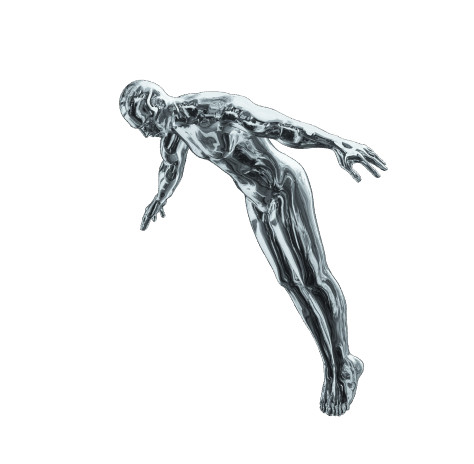
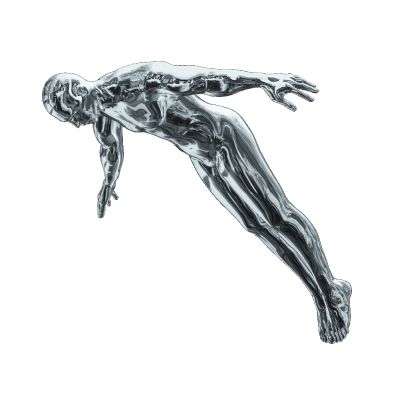
review update

Changed region(s): [[0.0867, 0.1467, 0.8675, 0.9095]]

diff --git a/components/SectionAccess.vue b/components/SectionAccess.vue
@@ -16,6 +16,7 @@
       <div class="scrolling-wrapper">
         <div v-for="item in list" :key="item.text" class="logos-item">
           <tm-link :href="item.url" class="logo" :class="item.img">
+            <span class="logo-inner" :class="item.img"></span>
             <img
               :src="require(`~/assets/images/logos/${item.img}.svg`)"
               :alt="item.text"
@@ -40,6 +41,7 @@
           <div class="text">
             <div v-for="item in list" :key="item.text" class="logos-item">
               <tm-link :href="item.url" class="logo" :class="item.img">
+                <span class="logo-inner" :class="item.img"></span>
                 <img
                   :src="require(`~/assets/images/logos/${item.img}.svg`)"
                   :alt="item.text"
@@ -57,6 +59,7 @@
           <div class="text">
             <div v-for="item in list" :key="item.text" class="logos-item">
               <tm-link :href="item.url" class="logo" :class="item.img">
+                <span class="logo-inner" :class="item.img"></span>
                 <img
                   :src="require(`~/assets/images/logos/${item.img}.svg`)"
                   :alt="item.text"
@@ -202,20 +205,21 @@ export default {
 
 .logo
   position relative
-  display inline-flex
-  align-items center
-  justify-content center
   width 7.8125rem
   height 7.8125rem
-  border-radius 100%
-  background-position center
-  background-size 101%
-  background-repeat no-repeat
+  color transparent
   &:hover
-  &:focus
+    .logo-inner
+    .logo-item
+      transform translate(-50%, -50%) scale(1.1)
     &:before
       animation none
-      opacity 0.75
+      opacity 0.7
+  &:focus
+  &:active
+    &:before
+      animation none
+      opacity 0.7
   &:before
     content ''
     opacity 0.5
@@ -229,37 +233,62 @@ export default {
     transition opacity .2s $ease-out
     animation fading-orb 5s ease-out infinite
   &.akash
-    background-image url('~/assets/images/logos/orb-akash.jpg')
     &:before
       background radial-gradient(50% 50% at 50% 50%, #EF6565 35.94%, rgba(243, 102, 91, 0) 100%)
   &.cosmos
-    background-image url('~/assets/images/logos/orb-cosmos.jpg')
     &:before
       background radial-gradient(50% 50% at 50% 50%, #7C8AFF 35.94%, rgba(124, 138, 255, 0) 100%)
   &.crypto-com
-    background-image url('~/assets/images/logos/orb-crypto-com.jpg')
     &:before
       background radial-gradient(50% 50% at 50% 50%, #3C61DB 35.94%, rgba(177, 98, 230, 0) 100%)
   &.irisnet
-    background-image url('~/assets/images/logos/orb-irisnet.jpg')
     &:before
       background radial-gradient(50% 50% at 50% 50%, #7C8AFF 35.94%, rgba(177, 98, 230, 0) 100%)
   &.osmosis
-    background-image url('~/assets/images/logos/orb-osmosis.jpg')
     &:before
       background radial-gradient(50% 50% at 50% 50%, #9948FF 35.94%, rgba(124, 138, 255, 0) 100%)
   &.persistence
-    background-image url('~/assets/images/logos/orb-persistence.jpg')
     &:before
       background radial-gradient(50% 50% at 50% 50%, #6F312A 35.94%, rgba(135, 62, 57, 0) 100%)
   &.regen-network
-    background-image url('~/assets/images/logos/orb-regen-network.jpg')
     &:before
       background radial-gradient(50% 50% at 50% 50%, #57B17C 35.94%, rgba(136, 206, 200, 0) 100%)
   &.sentinel
-    background-image url('~/assets/images/logos/orb-sentinel.jpg')
     &:before
       background radial-gradient(50% 50% at 50% 50%, #506AFF 35.94%, rgba(124, 138, 255, 0) 100%)
+
+.logo-inner
+  position absolute
+  width 100%
+  height 100%
+  top 50%
+  left 50%
+  border-radius 100%
+  display inline-flex
+  align-items center
+  justify-content center
+  background-position center
+  background-size 101%
+  background-repeat no-repeat
+  transform translate(-50%, -50%)
+  transition transform .2s $ease-out
+  will-change all
+  &.akash
+    background-image url('~/assets/images/logos/orb-akash.jpg')
+  &.cosmos
+    background-image url('~/assets/images/logos/orb-cosmos.jpg')
+  &.crypto-com
+    background-image url('~/assets/images/logos/orb-crypto-com.jpg')
+  &.irisnet
+    background-image url('~/assets/images/logos/orb-irisnet.jpg')
+  &.osmosis
+    background-image url('~/assets/images/logos/orb-osmosis.jpg')
+  &.persistence
+    background-image url('~/assets/images/logos/orb-persistence.jpg')
+  &.regen-network
+    background-image url('~/assets/images/logos/orb-regen-network.jpg')
+  &.sentinel
+    background-image url('~/assets/images/logos/orb-sentinel.jpg')
 
 @keyframes fading-orb
   0%, 100%
@@ -268,7 +297,11 @@ export default {
     opacity .55
 
 .logo-item
+  position absolute
+  top 50%
+  left 50%
   width 5.6875rem
+  transform translate(-50%, -50%)
 
 .tm-link
   color var(--secondary)

diff --git a/pages/index.vue b/pages/index.vue
@@ -1,16 +1,20 @@
 <template>
   <main>
-    <div class="fixed-container">
-      <tm-button
-        to-link="external"
-        href="https://app.emeris.com"
-        size="m"
-        border-color="var(--primary)"
-        variant="outlined"
-        glow
-        class="btn"
-        >Launch app &#8594;</tm-button
-      >
+    <div ref="button" class="fixed-container">
+      <transition name="fade">
+        <tm-button
+          v-if="show"
+          to-link="external"
+          href="https://app.emeris.com"
+          size="m"
+          border-color="var(--primary)"
+          variant="outlined"
+          glow
+          class="btn"
+          >Launch app &#8594;</tm-button
+        >
+      </transition>
+      <tm-cookie-banner />
     </div>
     <section-hero />
     <section-intro />
@@ -22,7 +26,7 @@
     <section-access />
     <section-beta />
     <section-updates />
-    <section-cta />
+    <section-cta ref="cta" />
   </main>
 </template>
 
@@ -36,22 +40,48 @@ export default {
   data() {
     return {
       show: true,
-      isVisible: false,
     }
   },
+
+  mounted() {
+    this.setupListener()
+  },
+
+  beforeDestroy() {
+    window.removeEventListener('scroll', this.scrollHandler, false)
+  },
+
   methods: {
-    visibilityChanged(isVisible, entry) {
-      this.isVisible = isVisible
+    scrollHandler() {
+      const ctaTop = this.$refs.cta.$el.getBoundingClientRect().top
+      const buttonTop = this.$refs.button.getBoundingClientRect().top
+      if (ctaTop <= buttonTop) {
+        this.show = false
+      } else {
+        this.show = true
+      }
+    },
+
+    setupListener() {
+      window.addEventListener('scroll', this.scrollHandler, false)
     },
   },
 }
 </script>
 
 <style lang="stylus" scoped>
+.fade-enter-active
+.fade-leave-active
+  transition opacity .5s
+
+.fade-enter
+.fade-leave-to
+  opacity 0
+
 .fixed-container
   position fixed
   z-index 9
-  bottom var(--spacing-9)
+  bottom 0
   left var(--wrap-gap)
   right var(--wrap-gap)
   @media $breakpoint-medium
@@ -59,6 +89,9 @@ export default {
     left auto
   .btn
     width 100%
+    margin-bottom var(--wrap-gap)
+    @media $breakpoint-medium
+      margin-bottom 0
 
 // @media $breakpoint-large
 // @media $breakpoint-xl

diff --git a/components/TmCookieBanner.vue b/components/TmCookieBanner.vue
@@ -9,7 +9,7 @@
               href="https://www.cookiesandyou.com"
               target="_blank"
               rel="noopener"
-              style="color: var(--link)"
+              style="color: var(--secondary)"
               >Cookie Policy</a
             >.
           </div>
@@ -115,19 +115,34 @@ export default {
   box-sizing border-box
   box-shadow 0px 24px 40px rgba(22, 25, 49, 0.1),
     0px 10px 16px rgba(22, 25, 49, 0.08), 0px 1px 0px rgba(22, 25, 49, 0.05)
-  position fixed
-  top 1rem
-  left 50%
-  transform translateX(-50%)
+  margin-left calc(var(--wrap-gap) * -1)
+  margin-right calc(var(--wrap-gap) * -1)
   background var(--fg)
   border-width 0.0625rem
   border-style solid
   border-color transparent
   border-image initial
-  border-radius $border-radius-3
+  @media $breakpoint-medium
+    position fixed
+    bottom var(--spacing-10)
+    left var(--wrap-gap)
+    border-radius $border-radius-3
+    margin-left 0
+    margin-right 0
+  @media $breakpoint-large
+    left 50%
+    transform translateX(-50%)
 
 .wrapper
   display flex
+  @media $breakpoint-small
+    align-items center
+    justify-content center
+  @media $breakpoint-medium
+    height 2.9rem
+    margin-left -1px
+    margin-top -1px
+    margin-bottom -2px
 
 .message
   color var(--muted)
@@ -163,8 +178,8 @@ export default {
   stroke var(--white)
   transition stroke 0.2s
 
-@media screen and (max-width: 435px)
-  .banner-wrapper
-    white-space normal
-    width 90%
+// @media screen and (max-width: 435px)
+//   .banner-wrapper
+//     white-space normal
+//     width auto
 </style>

diff --git a/components/graphics/GraphicsCta.vue b/components/graphics/GraphicsCta.vue
@@ -41,23 +41,28 @@
   width 100%
 
 @keyframes surfer-levitate
-  0%
-    transform translateY(5%) translateX(-50%) rotate(2deg)
-  100%
-    transform translateY(-3%) translateX(-50%) rotate(-2deg)
+  0%, 100%
+    transform translate(-50%, 5%)
+  50%
+    transform translate(-50%, -3%)
 
 .surfer
   mix-blend-mode hard-light
-  width 150%
   max-width none
-  top -23%
-  left 31%
+  width 130%
+  top -4%
+  left 37%
   transform translateX(-50%)
   animation surfer-levitate 5s ease-in-out alternate infinite
+  mask-mode alpha
+  mask-repeat no-repeat
+  mask-image url('~/assets/images/elements/surfer-dive-mask.svg')
+  mask-size cover
+  backdrop-filter blur(4.7px)
   @media $breakpoint-medium
-    width 83%
+    width 73%
     top -13%
-    left 46.5%
+    left 52%
   @media $breakpoint-xl
     width 113%
     top -21%

diff --git a/components/SectionHero.vue b/components/SectionHero.vue
@@ -116,6 +116,9 @@ img
   width 100%
 
 .title
+  max-width calc((1.401125rem + 3.7441666666666666vw) * 8)
+  @media $breakpoint-small
+    max-width none
   &:before
     content ''
     position absolute
@@ -167,9 +170,8 @@ img
   bottom var(--spacing-10)
   left var(--spacing-10)
   transform translateX(-1rem)
-  @media $breakpoint-medium
-    display block
   @media $breakpoint-large
+    display block
     transform translateX(-50%)
 
 a.btn

diff --git a/components/SectionBeta.vue b/components/SectionBeta.vue
@@ -248,6 +248,12 @@ export default {
   margin-top -28%
   margin-left -1.5rem
   transition transform .25s $ease-out
+  animation surfer-levitate 5s ease-in-out alternate infinite
+  mask-mode alpha
+  mask-repeat no-repeat
+  mask-image url('~/assets/images/elements/surfer-running-mask.svg')
+  mask-size cover
+  backdrop-filter blur(4.7px)
   @media $breakpoint-medium
     width 146%
     max-width none

diff --git a/components/TmFooter.vue b/components/TmFooter.vue
@@ -124,12 +124,11 @@ export default {
 
 <style lang="stylus" scoped>
 .footer
+  position relative
+  z-index 10
   padding-top var(--spacing-7)
   padding-bottom var(--spacing-9)
-  @media $breakpoint-large
-    position relative
-    z-index 10
-    background-color var(--bg)
+  background-color var(--bg)
   @media $breakpoint-xl
     padding-top var(--spacing-8)
     padding-bottom var(--spacing-8)
